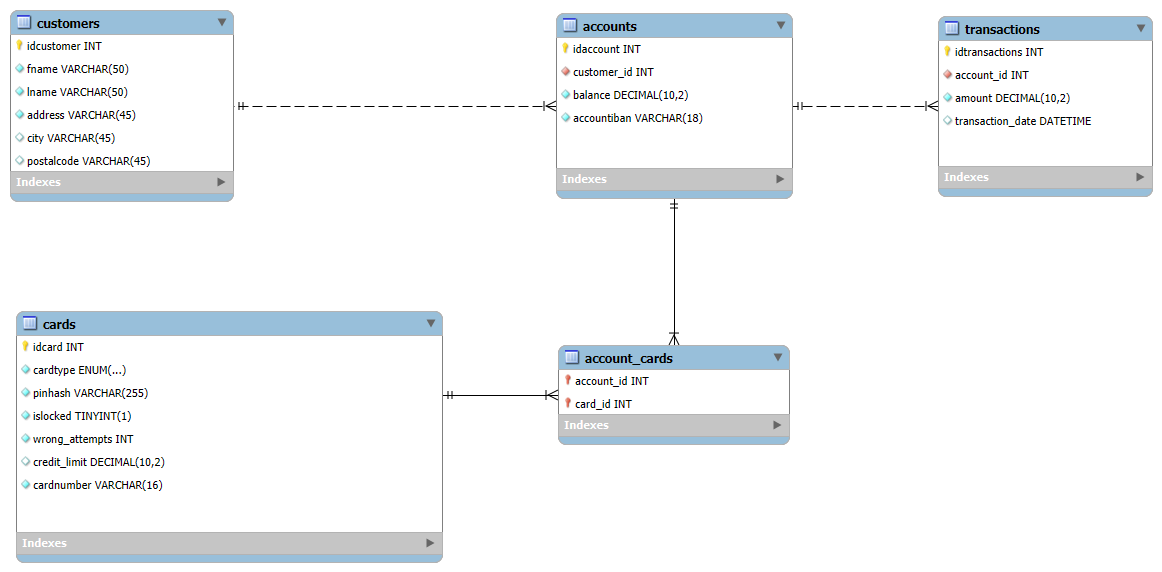
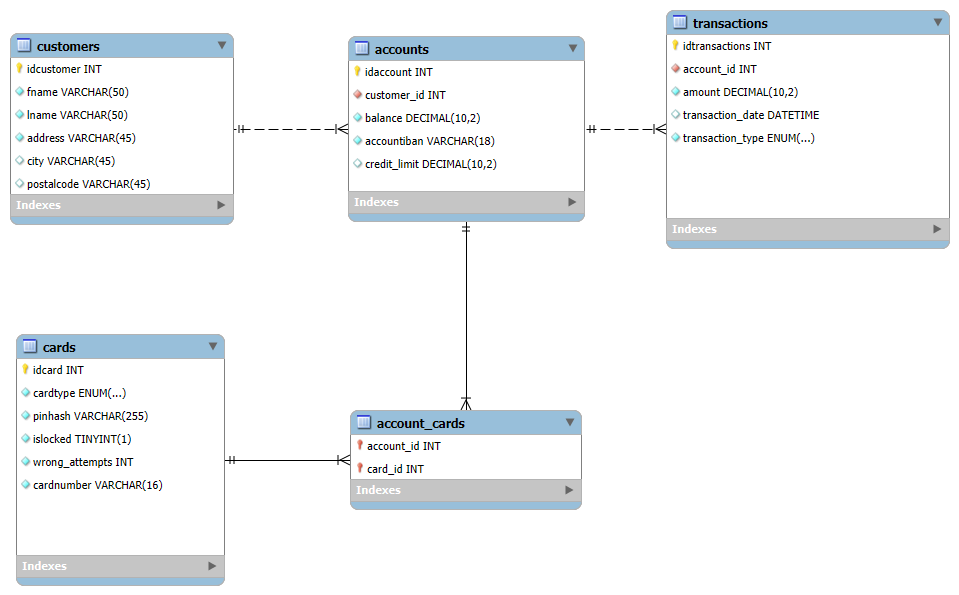
credit_limit siirto cards->accounts tauluun dokumentaation mukaan sekä modelien päivitys ja testaus

diff --git a/backend/models/cards_model.js b/backend/models/cards_model.js
@@ -14,16 +14,15 @@ const cards = {
     //kortin salasanan kryptaus
     add: function (cards_data, callback) {
         bcrypt.hash(cards_data.pinhash, 10, function (err, hashed_pinhash) {
-            return db.query("INSERT INTO cards(cardtype, pinhash, islocked, credit_limit, cardnumber) values(?,?,?,?,?)",
-                [cards_data.cardtype, hashed_pinhash, cards_data.islocked, cards_data.credit_limit,
-                cards_data.cardnumber], callback);
+            return db.query("INSERT INTO cards(cardtype, pinhash, islocked, cardnumber) values(?,?,?,?)",
+                [cards_data.cardtype, hashed_pinhash, cards_data.islocked, cards_data.cardnumber], callback);
         })
     },
     //kortin tietojen päivitys id:n perusteella
     update: function (id, update_cards_data, callback) {
-        bcrypt.hash(cards_data.pinhash, 10, function (err, hashed_pinhash) {
-            return db.query("UPDATE cards SET cardtype=?, pinhash=?, islocked=?, credit_limit=? WHERE idcard=?",
-                [update_cards_data.cardtype, hashed_pinhash, update_cards_data.islocked, update_cards_data.credit_limit, id], callback);
+        bcrypt.hash(update_cards_data.pinhash, 10, function (err, hashed_pinhash) {
+            return db.query("UPDATE cards SET cardtype=?, pinhash=?, islocked=? WHERE idcard=?",
+                [update_cards_data.cardtype, hashed_pinhash, update_cards_data.islocked, id], callback);
         })
     },
     //kortin poisto id:n perusteella

diff --git a/backend/models/accounts_model.js b/backend/models/accounts_model.js
@@ -4,8 +4,8 @@ const accounts = {
     // Lisää uusi tili tietokantaan
     addAccount: function (account, callback) {
         return db.query(
-            "INSERT INTO accounts (customer_id, balance, accountiban) VALUES (?, ?, ?)", 
-            [account.customer_id, account.balance, account.accountiban], 
+            "INSERT INTO accounts (customer_id, balance, accountiban, credit_limit) VALUES (?, ?, ?, ?)", 
+            [account.customer_id, account.balance, account.accountiban, account.credit_limit], 
             callback
         );
     },
@@ -16,8 +16,8 @@ const accounts = {
     // Päivitä tili id:n perusteella
     updateAccount: function (account, id, callback) {
         return db.query(
-            "UPDATE accounts SET customer_id=?, balance=?, accountiban=? WHERE idaccount=?", 
-            [account.customer_id, account.balance, account.accountiban, id], 
+            "UPDATE accounts SET customer_id=?, balance=?, accountiban=?, credit_limit=? WHERE idaccount=?", 
+            [account.customer_id, account.balance, account.accountiban, account.credit_limit, id], 
             callback
         );
     },
